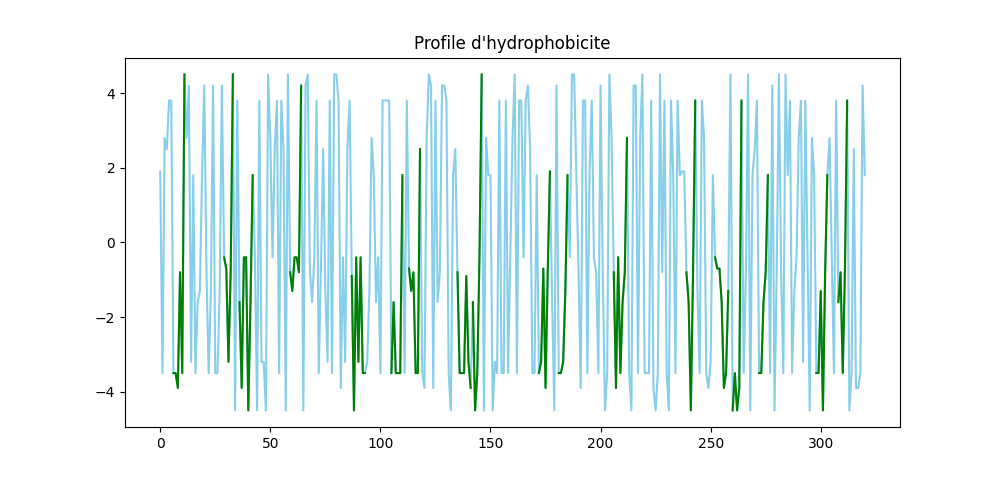
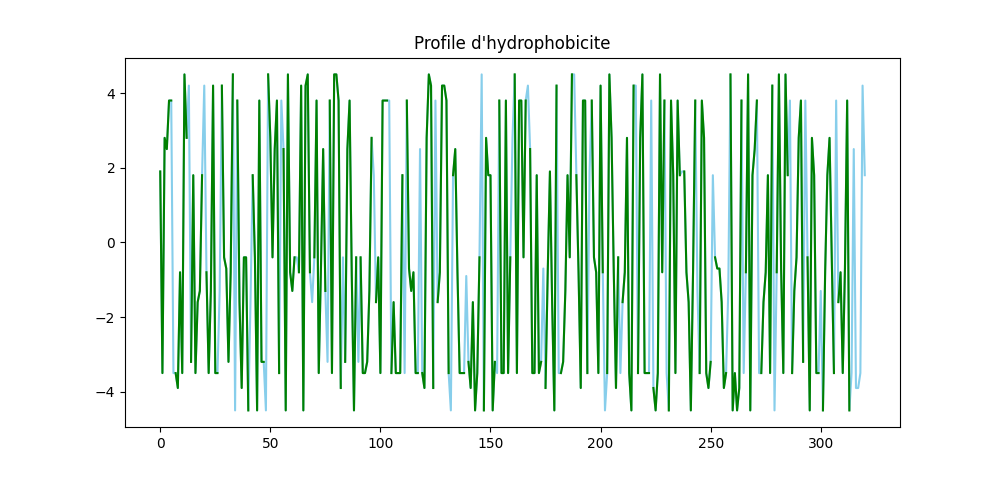
a

Changed region(s): [[0.155, 0.1562, 0.837, 0.8438]]

diff --git a/calculate_regions.py b/calculate_regions.py
@@ -1,11 +1,7 @@
 from scales import *
 import matplotlib.pyplot as plt
 from pdb_to_seq import pdb2seq
-#from interface import detections
 from configs import colors
-
-SCALE = "Kyte_Doolittle_scale"
-scale = scales[SCALE][0]
 
 
 def calculate_score(seq, echelle):
@@ -17,57 +13,18 @@ def calculate_score(seq, echelle):
                 seq_scores[s].append(scales[s][0][aa])
     return seq_scores
 
-def score_more(score):
-    if score >= 0:
+def score_more(score, value):
+    if score >= value:
         return True
     return False
 
-def score_less(score):
-    if score <= 0:
+def score_less(score, value):
+    if score <= value:
         return True
     return False
 
-def check_region_general(score, region, fun, i):
-    if fun(score[i]):
-        region[1][-1].append(i)
-        region[0] += 1
-        return True
-    return False
 
-def check_hydrophobicity(score, region, fun, i):
-    if not check_region_general(score, region, fun, i):
-        if len(region[1][-1]) == 1:
-            del region[1][-1]
-            del region[2][-1]
-            if len(region[1]) == 0:
-                    region[1].append([i])
-                    region[2].append([score[i]])
-        elif len(region[1][-1])!=0:
-            region[1].append([i])
-            region[2].append([score[i]])
-
-
-def check_region(score, region, param, fun, i):
-    if not check_region_general(score, region, fun, i):
-        print('CCCCCC', region[1], param)
-        if len(region[1][-1]) > param[1].get() and \
-          len(region[1][-1]) < param[2].get(): # and \
-          #(region[0]/len(region[1][-1])) > param[3].get():
-            region[0] = 0
-            region[1].append([i])
-            region[2].append([score[i]])
-        else:
-            if len(region[1][-1])>0 and i != len(score)-1:
-                del region[1][-1]
-                del region[2][-1]
-                if len(region[1]) == 0:
-                    region[1].append([i])
-                    region[2].append([score[i]])
-
-
-
-
-def calculate_regions(score, param, fun):
+def calculate_regions(score, param, fun, value):
 
     region = []
 
@@ -75,48 +32,31 @@ def calculate_regions(score, param, fun):
     debut = 0
     fin = 0
     mistakes = 0
-    mistake_position = 0
 
     i = 0
     while i < len(score):
-        #if fun(score[i]) and etat == 0:
         if etat == 0:
             debut = i
             etat = 1
             print('D', debut)
         if etat == 1:
             dist = abs(i-debut)+1
-            #if dist < int(param[2].get()):
-            #print(mistakes/dist, float(param[3].get()), mistakes/dist < float(param[3].get()))
             if dist < int(param[2].get()):
-                """if mistakes/dist < float(param[3].get()) and dist < int(param[2].get()):
-                        if not fun(score[i]):
-                            mistakes += 1
-                else: 
-                        etat = 2
-                    #i -= 1"""
                 if mistakes/dist <= float(param[3].get()):
                     if not fun(score[i]):
                             mistakes += 1
                 else: 
                         etat = 2
-                    #i -= 1"""
             else: 
                 etat = 2
         
-        if etat == 2: #etat==1:
+        if etat == 2:
             fin = i
             dist = abs(fin-debut)
-            #if mistakes > dist*int(param[3].get()):
-            #    print(mistakes, mistake_position, dist*int(param[3].get()))
-            #    i = mistake_position
             if dist >= int(param[1].get()) and dist <= int(param[2].get()):
-                #print(mistakes)
                 region.append((debut, fin))
                 print('F', fin)
                 i -= 1
-            #elif mistakes> 0:
-            #    i = mistake_position-1
             else:
                 print(dist, int(param[1].get()),int(param[2].get()) )
                 i = debut
@@ -132,11 +72,19 @@ def calculate_regions(score, param, fun):
     print(region)
     return region
 
+def plot_region(scale_name, region_name, fun, seq_scores, params, seq_nb):
+    seq_score = seq_scores[scale_name]
+    region = calculate_regions(seq_score, params[region_name], 
+                                   fun, scales[scale_name][2])
+    for r in region:
+        if fun == score_more:
+            plt.plot(seq_nb[r[0]: r[1]], seq_score[r[0]: r[1]], color = colors[region_name])
+        else:
+            plt.plot(seq_nb[r[0]: r[1]-1], seq_score[r[0]: r[1]-1], color = colors[region_name])
+
 
 def make_plot(seq, debut, fin, params, echelles):
     seq_scores = calculate_score(seq, echelles)
-    #regions = calculate_regions(seq_score, params)
-    #r_transmb, r_surface = calculate_regions1(seq_score)
     seq_nb = [i for i in range(debut, fin)]
 
     plt.figure().set_figwidth(10)
@@ -151,19 +99,13 @@ def make_plot(seq, debut, fin, params, echelles):
         if params[k][0].get():
             params_keys.append(k)
     if 'region_transmembranaire' in params_keys:
-        seq_score = seq_scores['Kyte_Doolittle_scale']
-        region = calculate_regions(seq_score, params['region_transmembranaire'], score_more)
-        for r in region:
-            plt.plot(seq_nb[r[0]: r[1]], seq_score[r[0]: r[1]], color = colors['region_transmembranaire'])
+        plot_region('Kyte_Doolittle_scale', 'region_transmembranaire', score_more, seq_scores, params, seq_nb)
     if 'region_de_surface' in params_keys:
-        seq_score = seq_scores['Kyte_Doolittle_scale']
-        region = calculate_regions(seq_score, params['region_de_surface'], score_less)
-        for r in region:
-            plt.plot(seq_nb[r[0]: r[1]-1], seq_score[r[0]: r[1]-1], color = colors['region_de_surface'])
-    """if 'region_alpha_helice' in params_keys:
-        calculate_regions(seq_scores['Kyte_Doolittle_scale'], params['Kyte_Doolittle_scale'], score_more)
-    if 'region_antigenic' in params_keys:
-        calculate_regions(seq_scores['Kyte_Doolittle_scale'], params['Kyte_Doolittle_scale'], score_more)"""
+        plot_region('Kyte_Doolittle_scale', 'region_de_surface', score_less, seq_scores, params, seq_nb)
+    if 'region_antigenic_Hoop' in params_keys:
+        plot_region('Hopp_Woods_scale', 'region_antigenic_Hoop', score_less, seq_scores, params, seq_nb)
+    if 'region_antigenic_Kolaskar' in params_keys:
+        plot_region('Kolaskar_Tongaonkar_scale', 'region_antigenic_Kolaskar', score_more, seq_scores, params, seq_nb)
 
     
     #plt.plot(regions[region][1][i], regions[region][2][i], color = colors[region])
@@ -174,10 +116,7 @@ def make_plot(seq, debut, fin, params, echelles):
         ticks = [f'{aa}\n{nb}' for aa, nb in zip(seq, seq_nb) ]
         plt.xticks(seq_nb, ticks)
 
-    #print(r_transmb, r_surface)
-    #plt.show()
     plt.savefig('plot.png')
-    return plt
 
 def analyse(sequ_path, debut, fin, params, echelles): #+scale
     seq = pdb2seq(sequ_path)
@@ -185,9 +124,7 @@ def analyse(sequ_path, debut, fin, params, echelles): #+scale
         debut = int(debut)
         fin = int(fin)
         seq = seq[debut: fin]
-        plot = make_plot(seq, debut, fin, params,echelles)
+        make_plot(seq, debut, fin, params,echelles)
         
     else:
-        plot = make_plot(seq, 0, len(seq),params, echelles)
-        
-    return plot
+        make_plot(seq, 0, len(seq),params, echelles)

diff --git a/configs.py b/configs.py
@@ -1,17 +1,25 @@
 colors = {
     'region_transmembranaire': 'red',
     'region_de_surface': 'green',
-    'region_alpha_helice': 'indigo',
-    'region_antigenic': 'yellow',
+    'region_antigenic_Hoop': 'indigo',
+    'region_antigenic_Kolaskar': 'yellow',
 
     'Kyte_Doolittle_scale': 'skyblue',
     'Hopp_Woods_scale': 'wheat',
     'Cornette_scale': 'mistyrose',
-    '0': 'blue'
+    'Kolaskar_Tongaonkar_scale': 'plum',
+
+
+    '0_Kyte': 'blue',
+    '0_Hopp': 'goldenrod',
+    '0_Cornette': 'firebrick',
+    '0_Kolaskar': 'purple',
+
 }
 
 #detect, min, max, tolerance
 detections = {'region_transmembranaire': [False, 18, 22, 0], #if the values calculated are above 1.6
               'region_de_surface': [False, 5, 8, 0],
-              'region_antigenic': [False, 5, 8, 0], #change
-              'region_alpha_helice': [False, 5, 8, 0]} 
+              'region_antigenic_Hoop': [False, 2, 10, 0],
+              'region_antigenic_Kolaskar': [False, 6, 20, 0]}
+              #'region_alpha_helice': [False, 5, 8, 0]} 

diff --git a/scales.py b/scales.py
@@ -44,9 +44,32 @@ scales = {
     'V' : -0.5,
     'W' : -3.4,
     'Y' : -2.3,
-}, ['region_antigenic'], 0],
+}, ['region_antigenic_Hoop'], 0],
 
-"Cornette_scale": [{ 
+"Kolaskar_Tongaonkar_scale" : [{ #change to Welling scale + Kolaskar-Tongaonkar
+    'A': 1.064,
+    'C': 1.412,
+    'D': 0.866,
+    'E': 0.854,
+    'F': 1.091,
+    'G': 0.874,
+    'H' : 1.105,
+    'I' : 1.152,
+    'K': 0.930,
+    'L': 1.250,
+    'M': 0.826,
+    'N': 0.776,
+    'P' : 1.064,
+    "Q" : 1.015,
+    'R' : 0.873,
+    "S" : 1.012,
+    'T' : 0.909,
+    'V' : 1.383,
+    'W' : 0.893,
+    'Y' : 1.161,
+}, ['region_antigenic_Kolaskar'], 1]}#,
+
+""""Cornette_scale": [{ 
     'A': 0.2,
     'C': 4.1,
     'D': -3.1,
@@ -67,6 +90,6 @@ scales = {
     'V' : 1.08,
     'W' : 0.81,
     'Y' : 0.26,
-}, ['region_alpha_helice'], 0],
-}
+}, []]
+}"""
 
